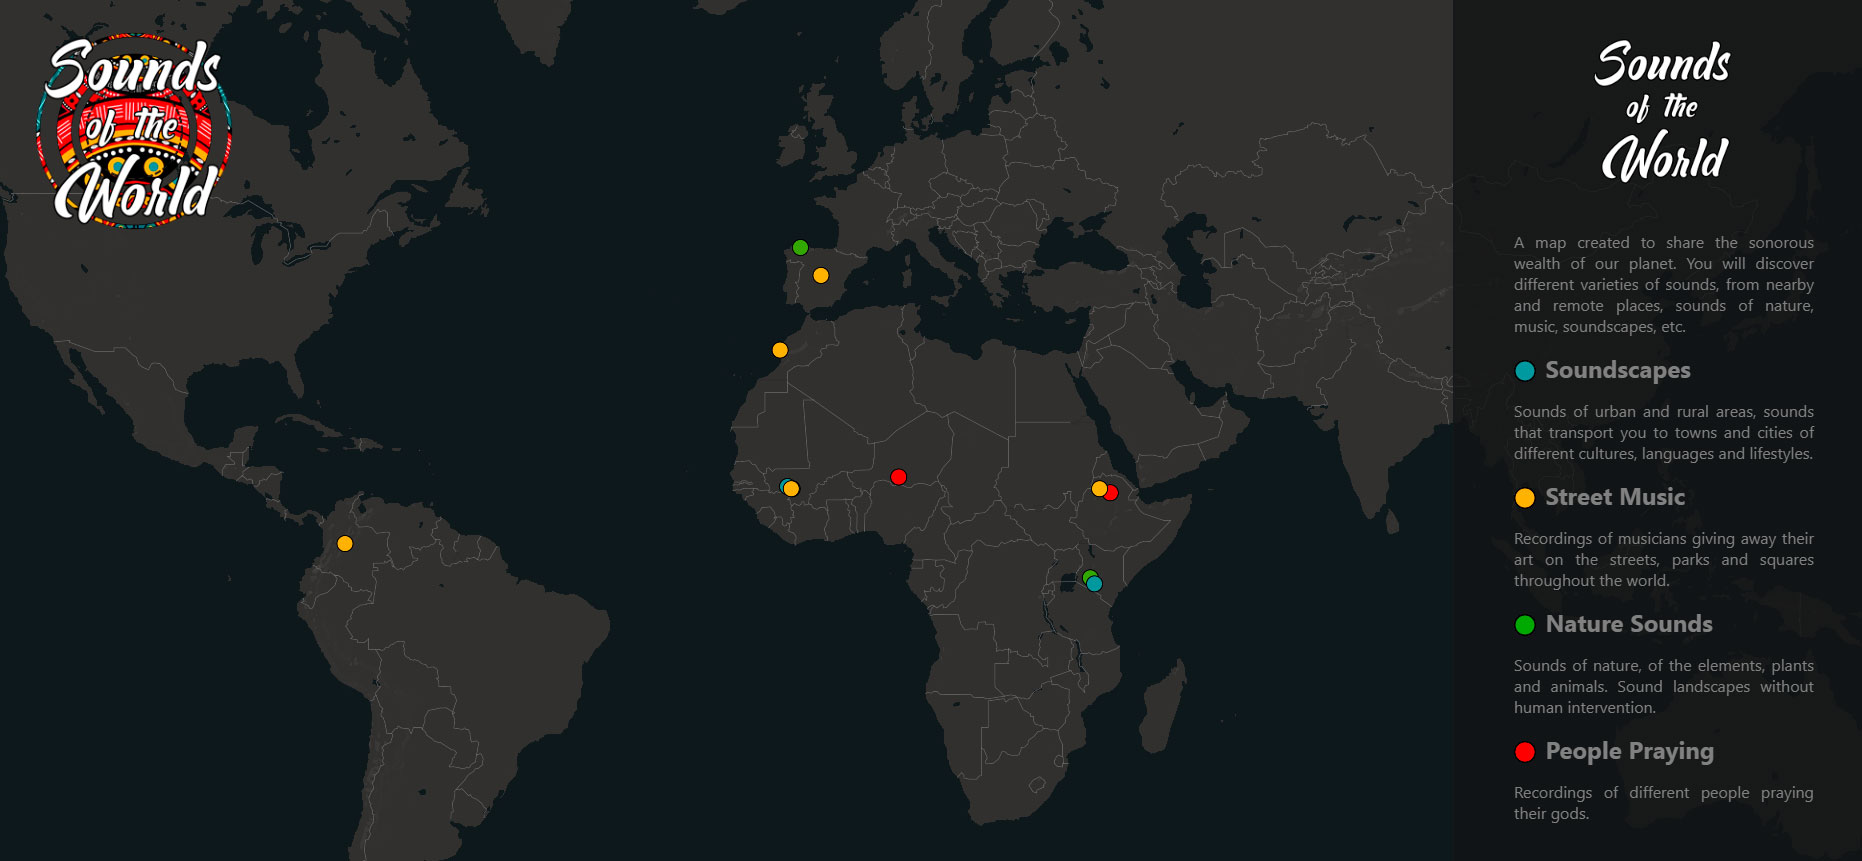
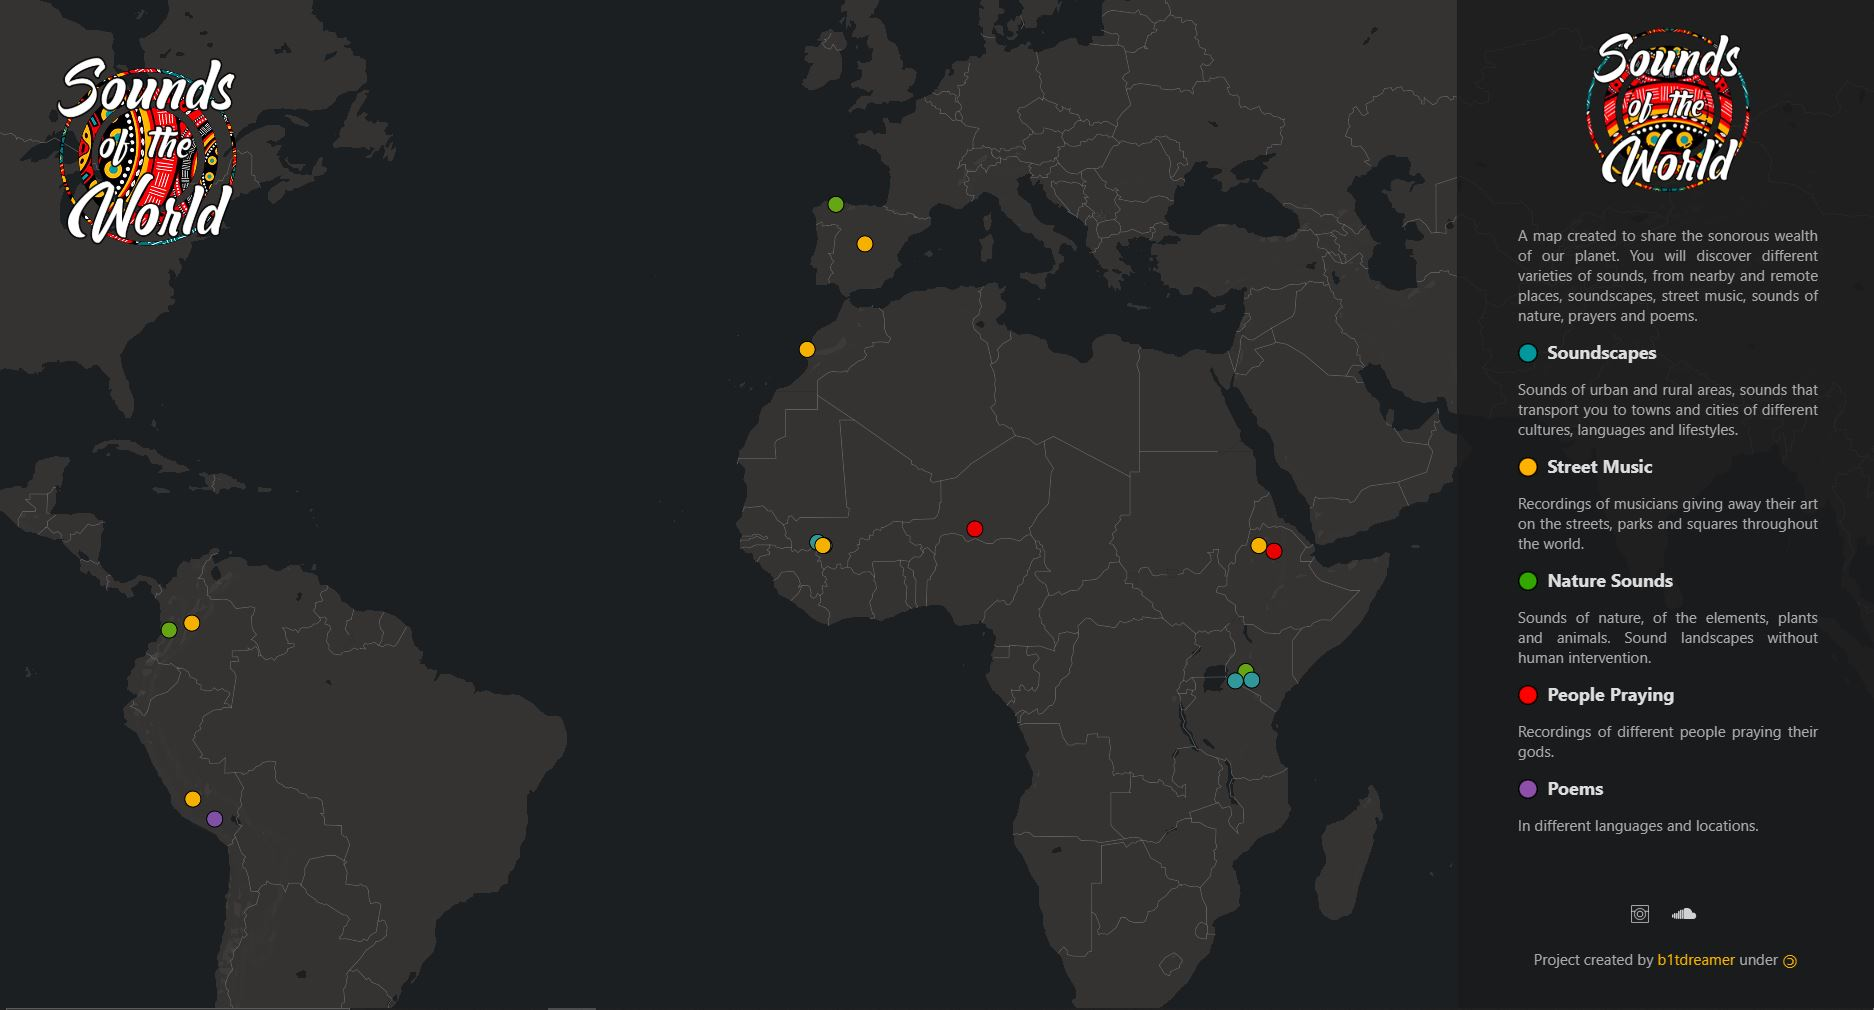
update images

diff --git a/index.html b/index.html
@@ -24,10 +24,12 @@
 	<div id='map'></div>
 	<div id="sideInfo" class="info">
 		<!--a href="#" title="Close panel" id="closeInfo" class="close">&times;</a-->
-		<img class="infologo" src="img/SoundsOfTheWorld-title.png" alt="Sounds of the World logo"/>
-		<p>A map created to share the sonorous wealth of our planet. You will discover different varieties of sounds, from nearby and remote places, sounds of nature, music, soundscapes, etc.</p>
-		<img src="img/blueCircle.png" alt="Soundscapes category" class="circle"/>
-		<h2>Soundscapes</h2>
+		<img class="infologo" src="img/SoundsOfTheWorld.png" alt="Sounds of the World logo"/>
+		<p>A map created to share the sonorous wealth of our planet. You will discover different varieties of sounds, from nearby and remote places, soundscapes, street music, sounds of nature, prayers and poems.</p>
+		<a href="" title="Filter by soundscapes">
+			<img src="img/blueCircle.png" alt="Soundscapes category" class="circle"/>
+			<h2>Soundscapes</h2>
+		</a>
 		<p>Sounds of urban and rural areas, sounds that transport you to towns and cities of different cultures, languages and lifestyles.</p>
 		<img src="img/orangeCircle.png" alt="Street music category" class="circle"/>
 		<h2>Street Music</h2>
